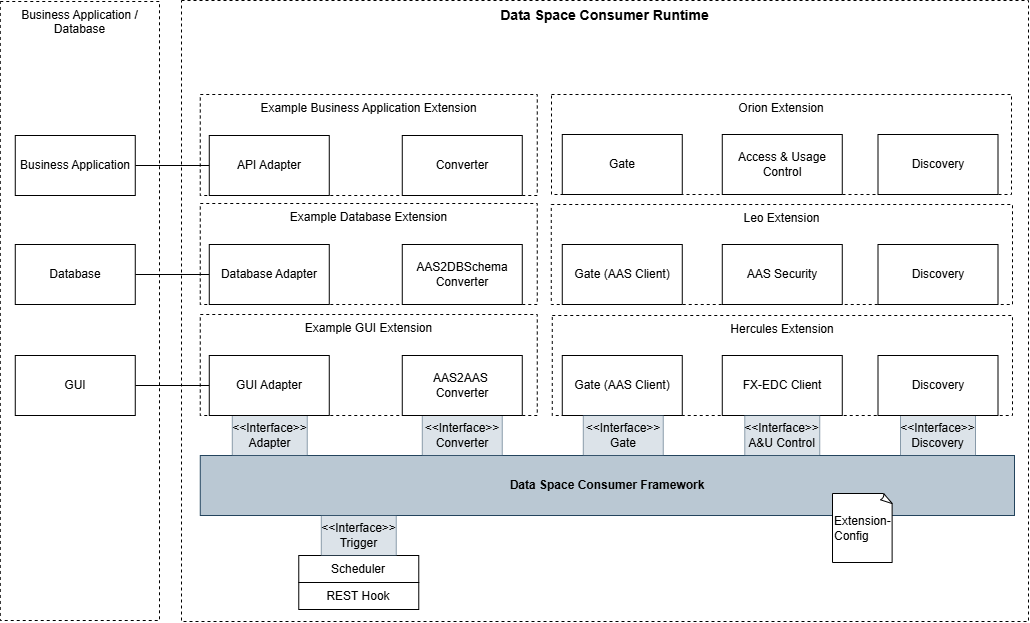
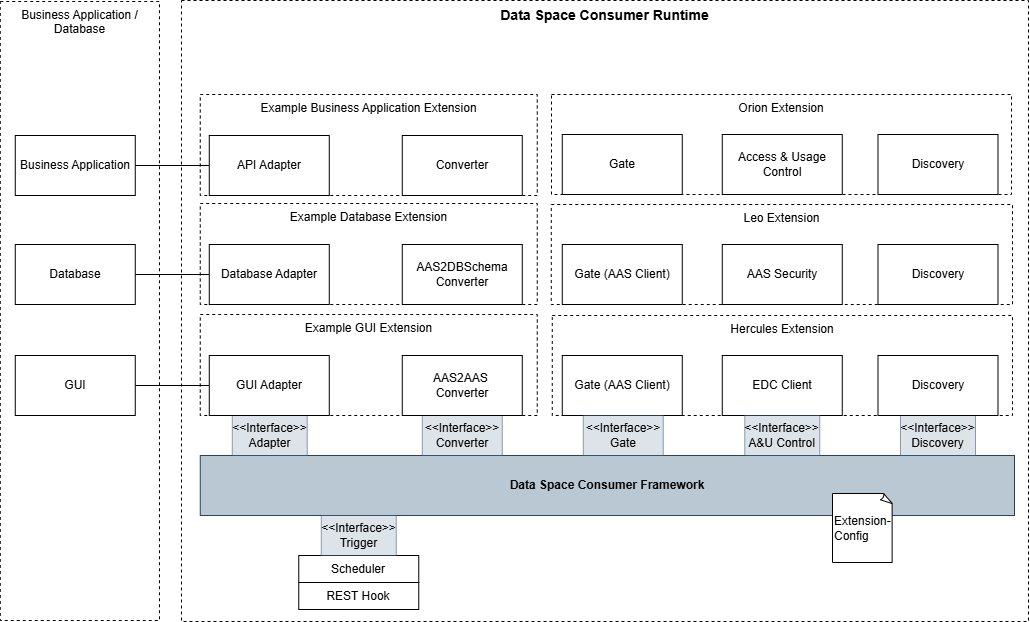
[docs] added leo extension documentation

diff --git a/README.md b/README.md
@@ -45,13 +45,15 @@ The architecture of the “Data Space Consumer” is modular and allows differen
 ### Discovery
 | Name                                                                     | Description                                                                                                                                                                     | Status | Can be used for  |
 |--------------------------------------------------------------------------|---------------------------------------------------------------------------------------------------------------------------------------------------------------------------------|--------|------------------|
-| [aas-dsp-discovery-extension](./extensions/aas-dsp-discovery-extension/) | conform to [ADR 002 – Cross-Company Authorization and Discovery](https://factory-x-contributions.github.io/architecture-decisions/docs/hercules_network_adr/adr002-authorization-discovery) | ✅      | Hercules MX-Port |
+| [aas-dsp-discovery-extension](./extensions/aas-dsp-discovery-extension/) | Conform to [ADR 002 – Cross-Company Authorization and Discovery](https://factory-x-contributions.github.io/architecture-decisions/docs/hercules_network_adr/adr002-authorization-discovery) | ✅      | Hercules MX-Port |
+| [aas-leo-discovery-extension](./extensions/aas-leo-discovery-extension/) | Discovers AAS data via a LEO-based discovery service | ✅      | Leo MX-Port |
+
 
 ### Access & Usage Control 
 | Name                                                                                         | Description                                                                                                                                                                                                                                                                                                                                                    | Status | Can be used for  |
 |----------------------------------------------------------------------------------------------|----------------------------------------------------------------------------------------------------------------------------------------------------------------------------------------------------------------------------------------------------------------------------------------------------------------------------------------------------------------|--------|------------------|
 | [fx-edc-access-usage-control-extension](./extensions/fx-edc-access-usage-control-extension/) | Client which use the [Facotry-X EDC](https://github.com/factory-x-contributions/factoryx-edc) for access control, conform to [ADR 003](https://factory-x-contributions.github.io/architecture-decisions/docs/hercules_network_adr/adr003-authentication) and [ADR 009](https://factory-x-contributions.github.io/architecture-decisions/docs/hercules_network_adr/adr009-aas-rest-dsp) | ✅      | Hercules MX-Port |
-| aas-security-client                                                                          | Client which use AAS security for access control                                                                                                                                                                                                                                                                                                               | ⏳      | Leo MX-Port      |
+| [fx-leo-access-control-extension](./extensions/fx-leo-access-control-extension) | Conform to the Factory-X LEO access control  | ✅      | Leo MX-Port |
 
 ### Gate
 | Name                                                         | Description                                                                                 | Status | Can be used for                  |